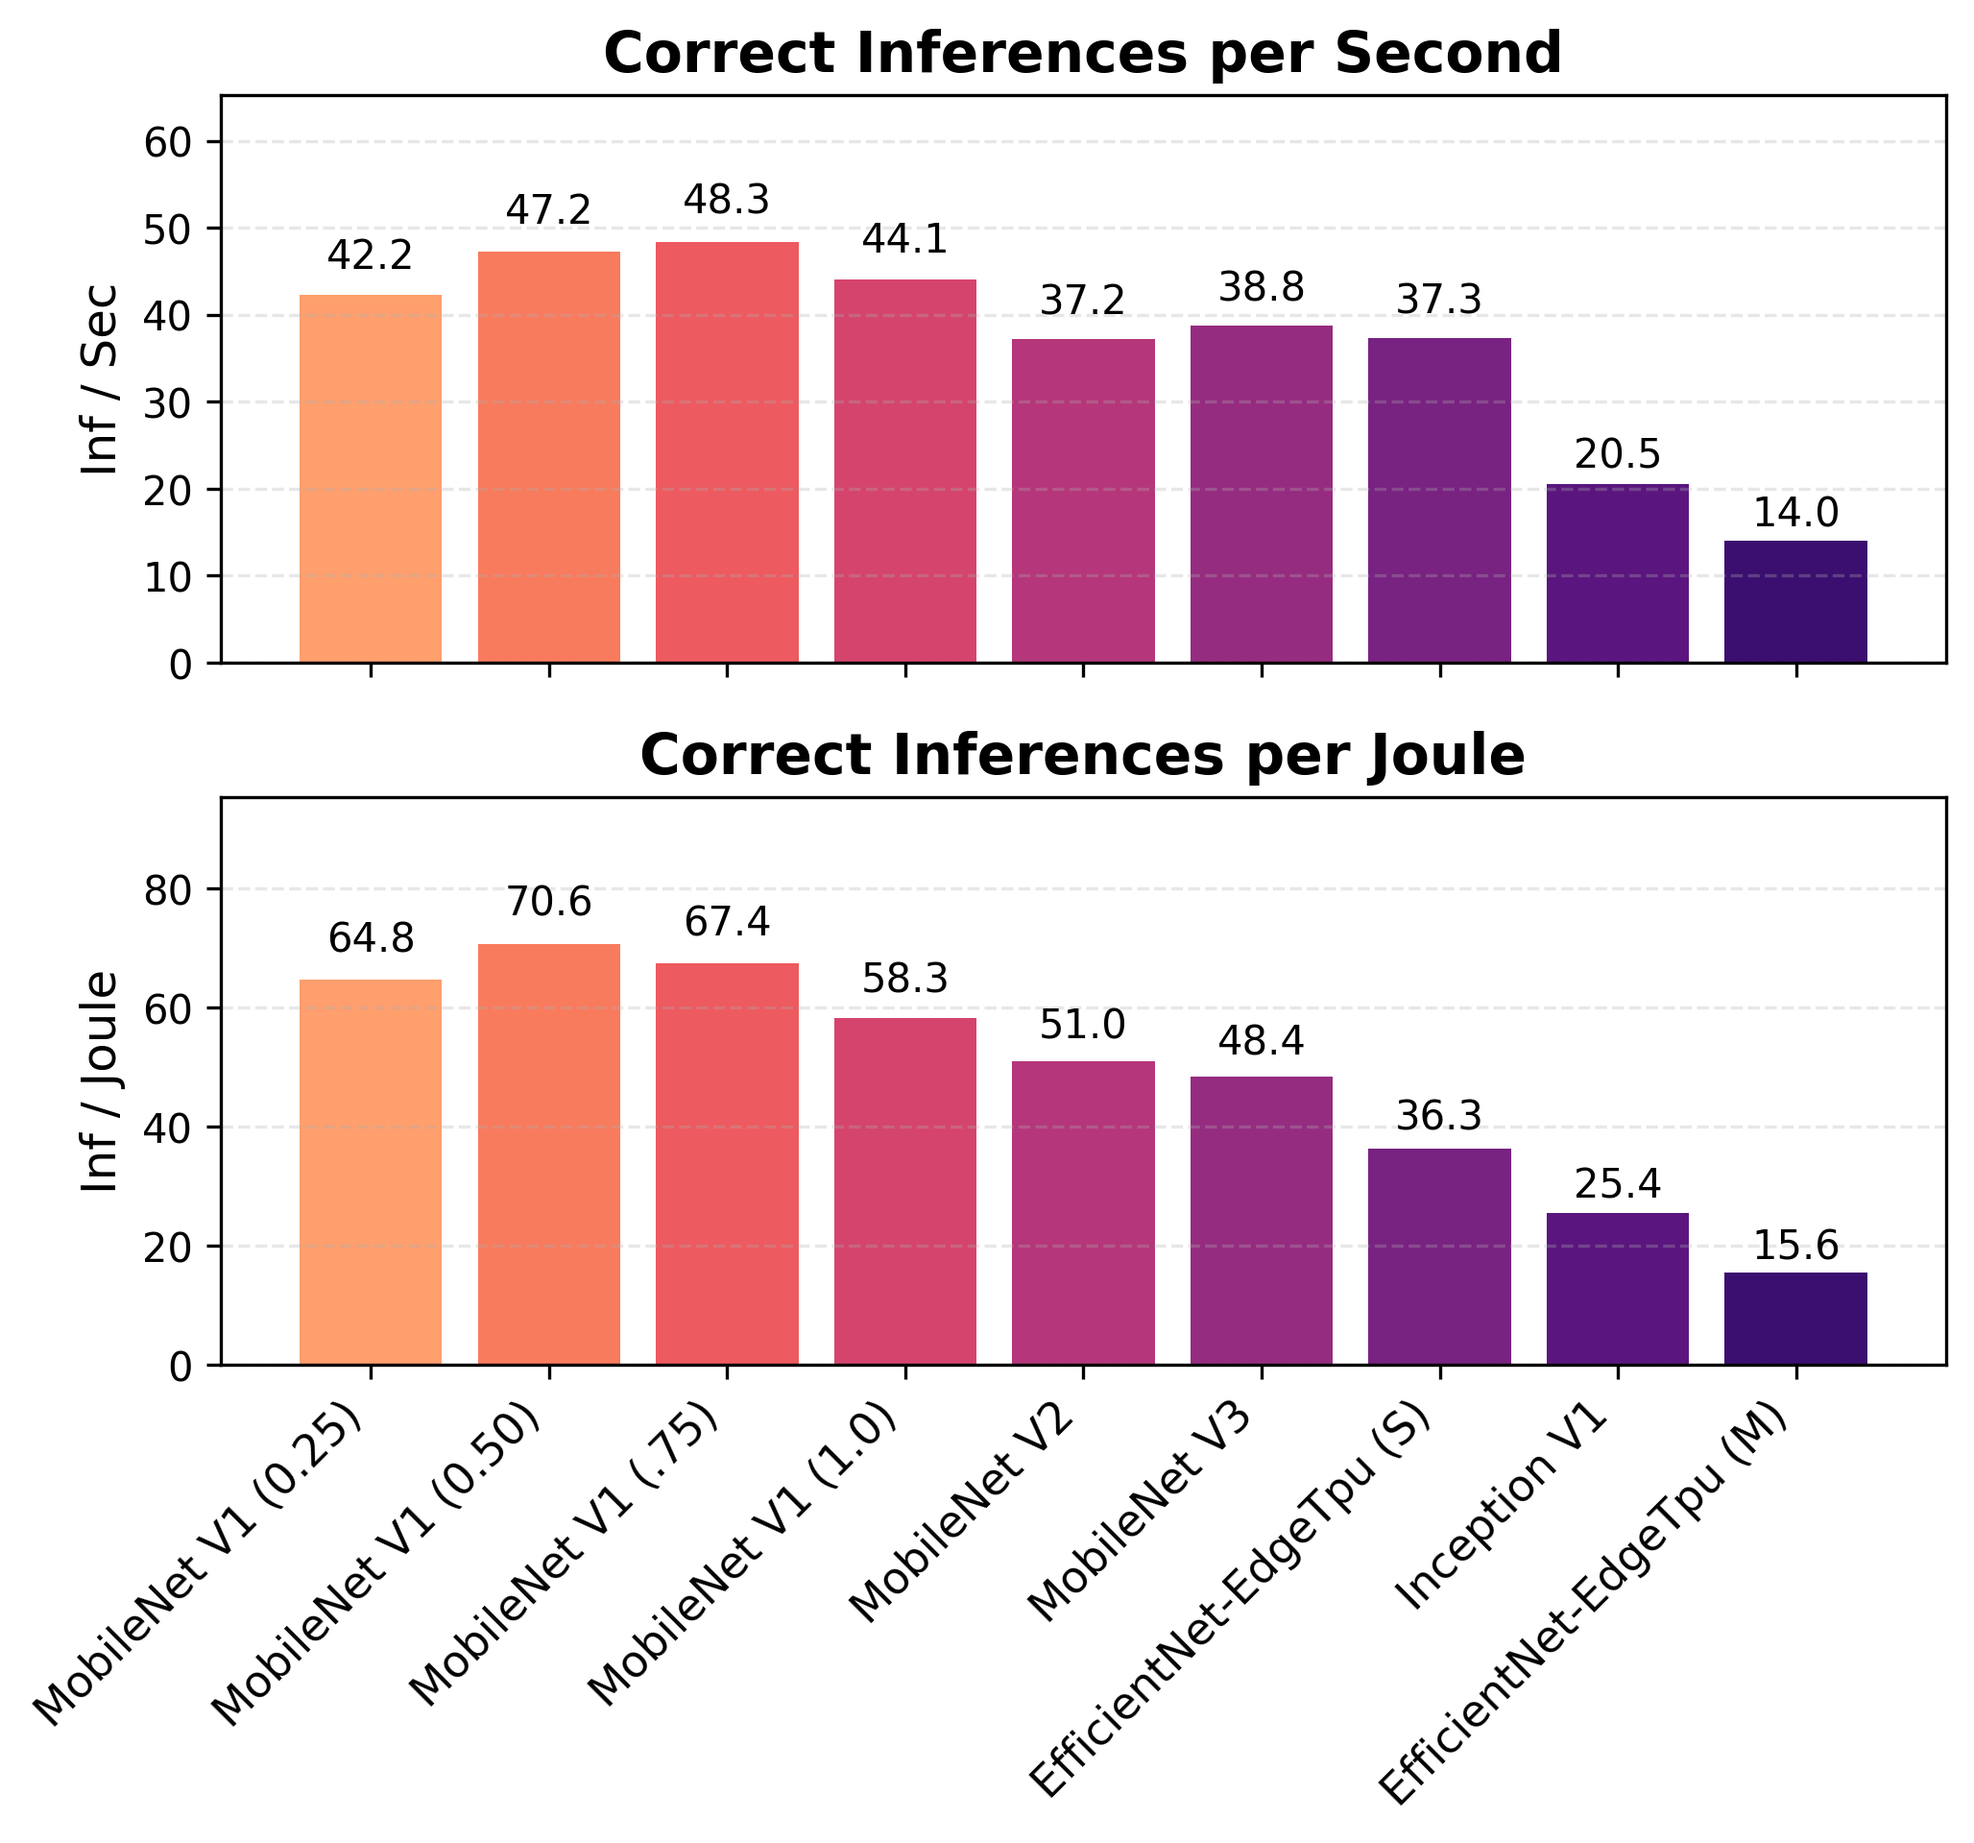
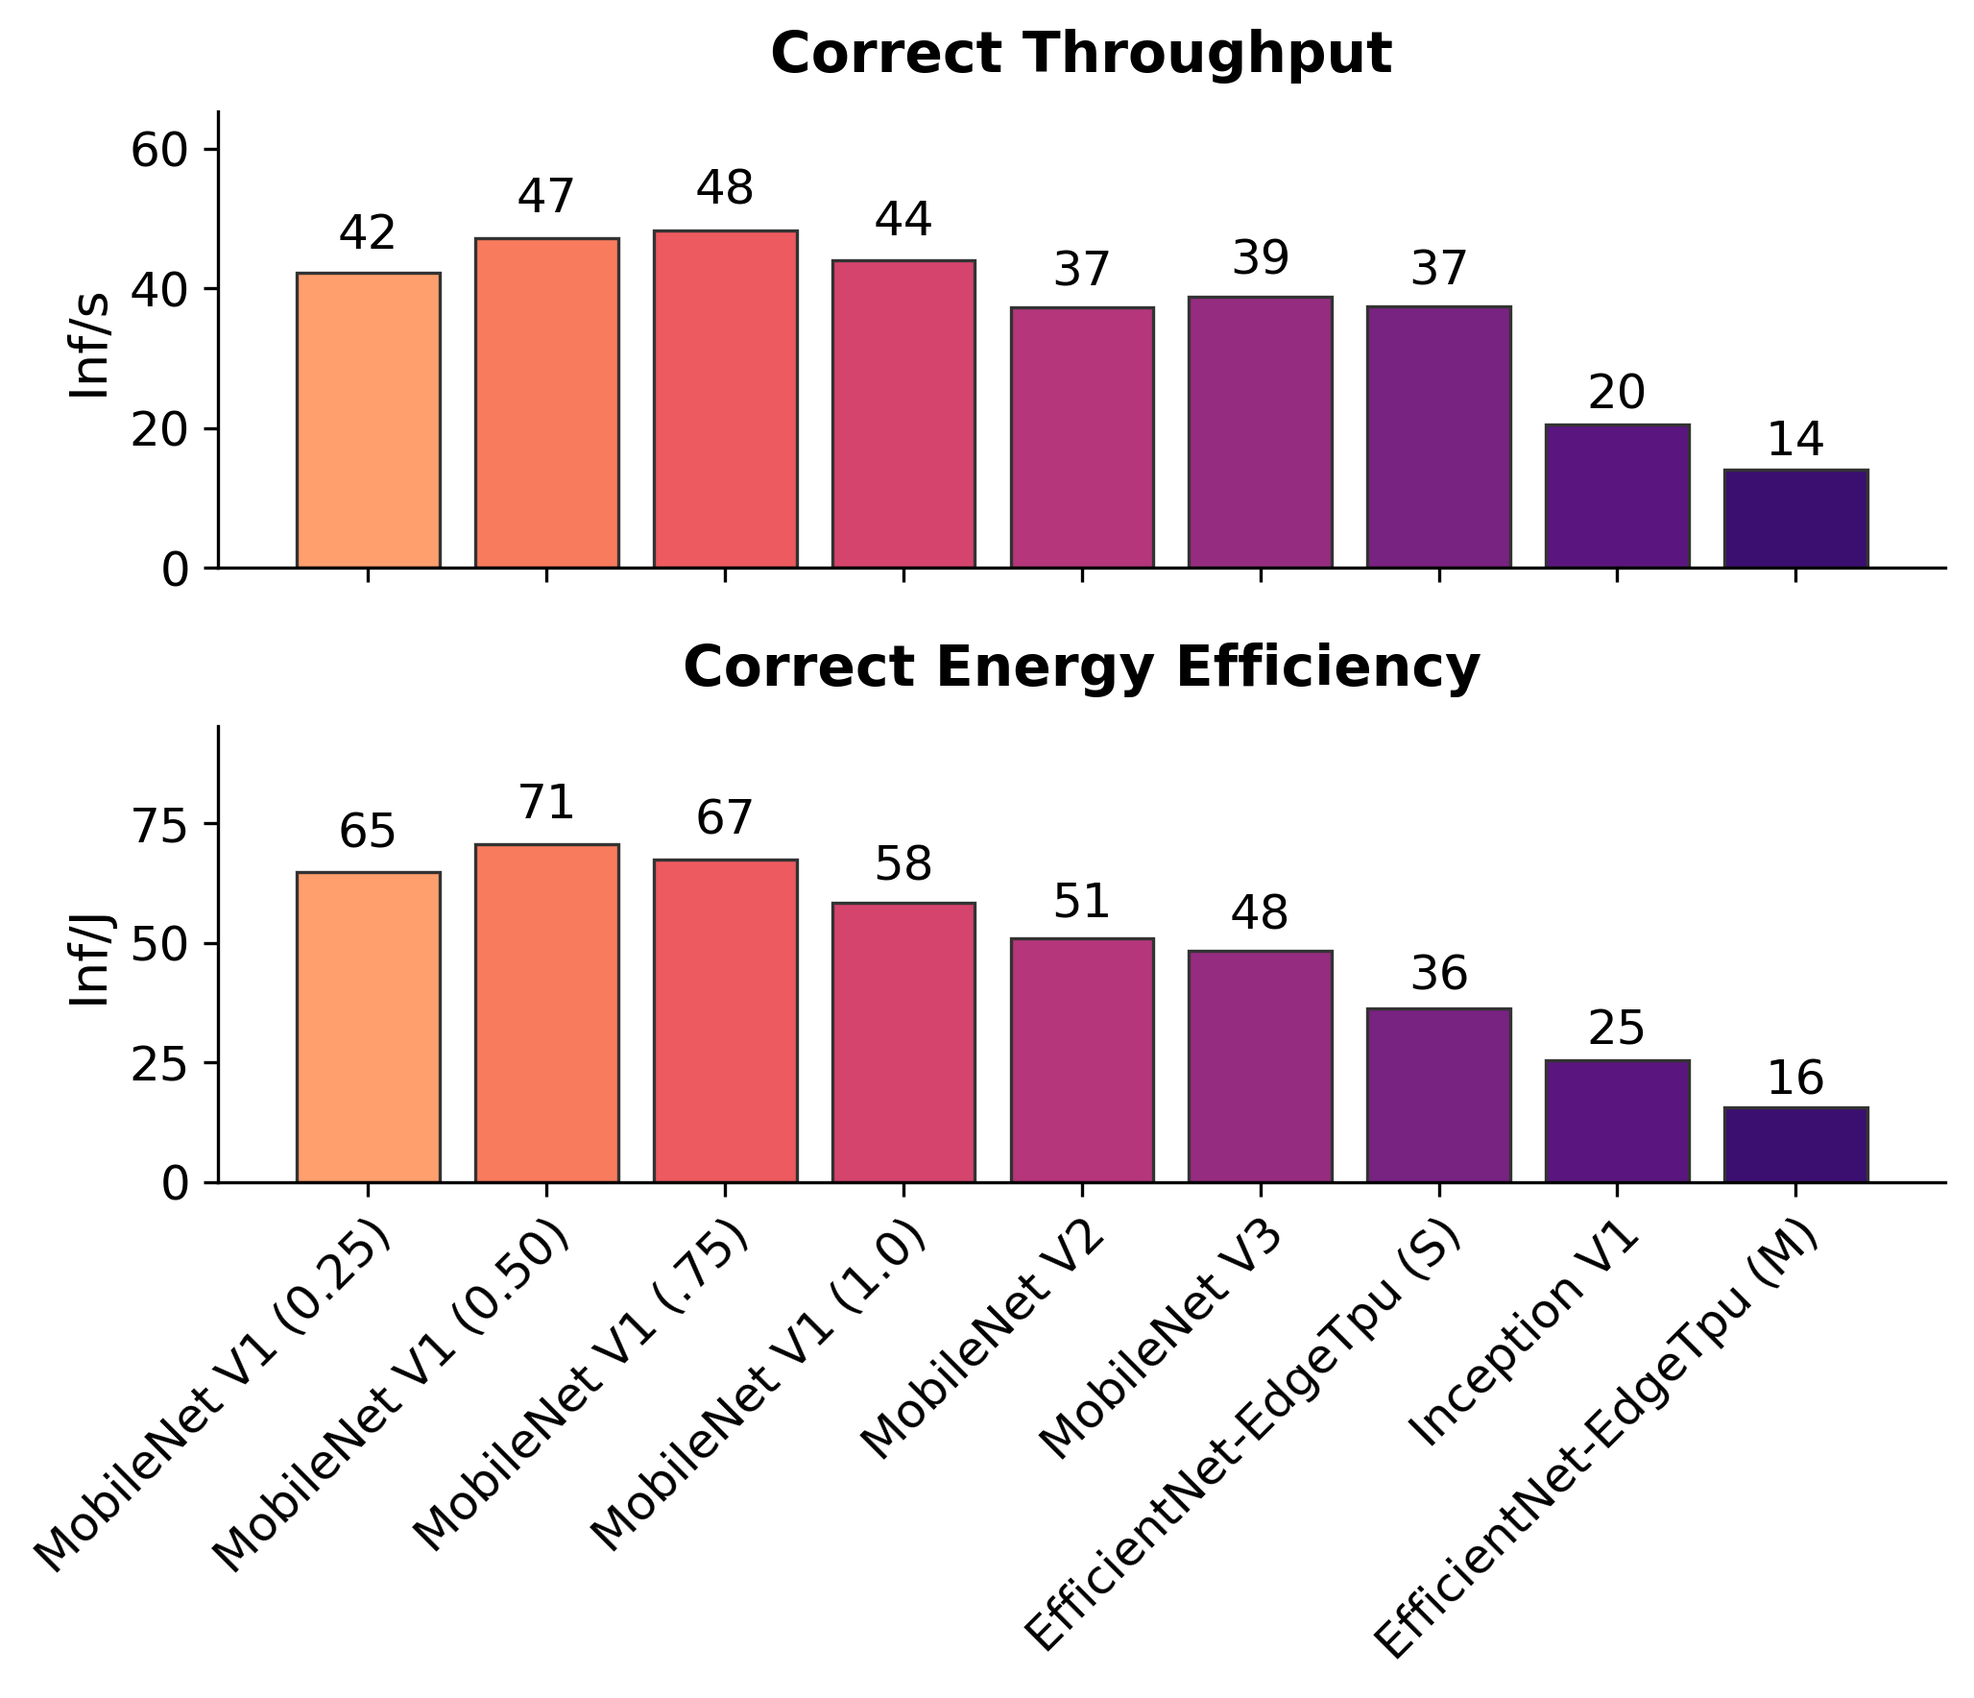
[results] updates pre-trained metric plots

diff --git a/src/scripts/hardware_characterization/plotting/model_stats_plotting.py b/src/scripts/hardware_characterization/plotting/model_stats_plotting.py
@@ -1166,20 +1166,17 @@ def plot_pretrained_from_compiled_json(json_path: pathlib.Path, filename: pathli
     with open(json_path, 'r') as f:
         data = json.load(f)
         
-    # Exclude specific models to clean up the plot
     exclusions = [
         "MobileNet V1 (TF_ver_2.0)", 
         "MobileNet V2 (TF_ver_2.0)", 
         "Inception V2"
     ]
     
-    # Filter for pre-trained models and apply exclusions
     pretrained = [
         d for d in data 
         if d.get("Source") == "PreTrained" and d.get("Model name") not in exclusions
     ]
     
-    # Sort by Inference Time for a clean visual progression
     pretrained.sort(key=lambda x: x["Measured Inference Time (ms)"])
     
     names = [d["Model name"] for d in pretrained]
@@ -1189,50 +1186,45 @@ def plot_pretrained_from_compiled_json(json_path: pathlib.Path, filename: pathli
     
     x_pos = np.arange(len(names))
     
-    # Magma colorway mapped across the models (matching tpunet_plotting)
     cmap = plt.get_cmap('magma_r')
     colors = cmap(np.linspace(0.2, 0.8, len(names)))
     
-    # Sized for a single-column paper layout 
-    fig, axes = plt.subplots(nrows=3, ncols=1, sharex=True, figsize=(7, 9))
+    fig, axes = plt.subplots(nrows=3, ncols=1, sharex=True, figsize=(7, 6))
     
     def plot_row(ax_idx, data_vals, title, ylabel, ylim_top=None):
         ax = axes[ax_idx]
-        ax.bar(x_pos, data_vals, color=colors)
+        # Added a thin dark edge to the bars for crisp print quality
+        ax.bar(x_pos, data_vals, color=colors, edgecolor='#333333', linewidth=0.8)
         
-        # Paper-appropriate font sizes
-        ax.set_title(title, fontsize=14, fontweight='bold')
-        ax.set_ylabel(ylabel, fontsize=12)
-        ax.tick_params(axis="y", labelsize=10)
-        ax.grid(True, axis='y', linestyle='--', alpha=0.3)
+        # Professional typography and spacing
+        ax.set_title(title, fontsize=14, fontweight='bold', pad=10)
+        ax.set_ylabel(ylabel, fontsize=13)
+        ax.tick_params(axis="y", labelsize=12)
         
-        # Add generous headroom for the horizontal text labels
+        # Clean backdrop and despine (remove top/right borders)
+        ax.grid(False)
+        ax.spines['top'].set_visible(False)
+        ax.spines['right'].set_visible(False)
+        
         if ylim_top: 
             ax.set_ylim(0, ylim_top)
         else: 
             ax.set_ylim(0, max(data_vals) * 1.35) 
             
         for j, val in enumerate(data_vals):
-            # Horizontal value text, offset slightly higher
+            # Bumped annotation text size
             ax.text(
-                x_pos[j], val * 1.05, f"{val:.1f}", 
-                ha='center', va='bottom', fontsize=10, rotation=0
+                x_pos[j], val * 1.05, f"{val:.0f}", 
+                ha='center', va='bottom', fontsize=12, rotation=0
             )
 
-    # Row 0: Energy
-    plot_row(0, energy, "Energy per Inference", "mJ")
-    
-    # Row 1: Latency
-    plot_row(1, latency, "Inference Latency", "ms")
-    
-    # Row 2: Accuracy
-    # Set to 115 to ensure the horizontal text fits above the high accuracy bars
-    plot_row(2, accuracy, "Top-1 Accuracy", "%", ylim_top=115) 
+    plot_row(0, energy, "Energy Consumption", "Energy (mJ)")
+    plot_row(1, latency, "Inference Latency", "Latency (ms)")
+    plot_row(2, accuracy, "Classification Accuracy", "Percent (%)", ylim_top=115) 
 
-    # X-Axis configuration
     axes[2].set_xticks(x_pos)
-    # The X-axis model names remain angled so they don't overlap in the narrow column
-    axes[2].set_xticklabels(names, rotation=45, ha="right", fontsize=11)
+    # Increased x-tick font size and aligned them perfectly with the tick marks
+    axes[2].set_xticklabels(names, rotation=45, ha="right", rotation_mode="anchor", fontsize=12)
 
     plt.tight_layout()
     plt.savefig(filename, dpi=300, bbox_inches="tight")
@@ -1256,20 +1248,17 @@ def plot_pretrained_correct_metrics_from_json(json_path: pathlib.Path, filename:
     with open(json_path, 'r') as f:
         data = json.load(f)
         
-    # Apply the same exclusions to match the standard metrics plot
     exclusions = [
         "MobileNet V1 (TF_ver_2.0)", 
         "MobileNet V2 (TF_ver_2.0)", 
         "Inception V2"
     ]
     
-    # Filter for pre-trained models and apply exclusions
     pretrained = [
         d for d in data 
         if d.get("Source") == "PreTrained" and d.get("Model name") not in exclusions
     ]
     
-    # Sort identically (by Inference Time) to maintain color/position consistency
     pretrained.sort(key=lambda x: x["Measured Inference Time (ms)"])
     
     names = [d["Model name"] for d in pretrained]
@@ -1277,61 +1266,57 @@ def plot_pretrained_correct_metrics_from_json(json_path: pathlib.Path, filename:
     correct_inf_sec = []
     correct_inf_joule = []
     
-    # Calculate the derived metrics
     for d in pretrained:
         acc_frac = d["Top-1 Accuracy"] / 100.0
-        
-        # 1000 / ms = Inf/Sec
         inf_sec = 1000.0 / d["Measured Inference Time (ms)"]
         correct_inf_sec.append(inf_sec * acc_frac)
         
-        # 1000 / mJ = Inf/Joule
         inf_joule = 1000.0 / d["Energy per Inference (mJ)"]
         correct_inf_joule.append(inf_joule * acc_frac)
     
     x_pos = np.arange(len(names))
     
-    # Magma colorway mapped across the models
     cmap = plt.get_cmap('magma_r')
     colors = cmap(np.linspace(0.2, 0.8, len(names)))
     
-    # Sized for a single-column paper layout (slightly shorter since it's only 2 rows)
-    fig, axes = plt.subplots(nrows=2, ncols=1, sharex=True, figsize=(7, 6.5))
+    fig, axes = plt.subplots(nrows=2, ncols=1, sharex=True, figsize=(7, 6))
     
     def plot_row(ax_idx, data_vals, title, ylabel):
         ax = axes[ax_idx]
-        ax.bar(x_pos, data_vals, color=colors)
+        # Added a thin dark edge to the bars for crisp print quality
+        ax.bar(x_pos, data_vals, color=colors, edgecolor='#333333', linewidth=0.8)
         
-        # Paper-appropriate font sizes
-        ax.set_title(title, fontsize=14, fontweight='bold')
-        ax.set_ylabel(ylabel, fontsize=12)
-        ax.tick_params(axis="y", labelsize=10)
-        ax.grid(True, axis='y', linestyle='--', alpha=0.3)
+        # Professional typography and spacing
+        ax.set_title(title, fontsize=14, fontweight='bold', pad=10)
+        ax.set_ylabel(ylabel, fontsize=13)
+        ax.tick_params(axis="y", labelsize=12)
         
-        # 35% headroom for horizontal text
+        # Clean backdrop and despine (remove top/right borders)
+        ax.grid(False)
+        ax.spines['top'].set_visible(False)
+        ax.spines['right'].set_visible(False)
+        
         ax.set_ylim(0, max(data_vals) * 1.35) 
             
         for j, val in enumerate(data_vals):
+            # Bumped annotation text size
             ax.text(
-                x_pos[j], val * 1.05, f"{val:.1f}", 
-                ha='center', va='bottom', fontsize=10, rotation=0
+                x_pos[j], val * 1.05, f"{val:.0f}", 
+                ha='center', va='bottom', fontsize=12, rotation=0
             )
 
-    # Row 0: Correct Inferences per Second (Throughput)
-    plot_row(0, correct_inf_sec, "Correct Inferences per Second", "Inf / Sec")
-    
-    # Row 1: Correct Inferences per Joule (Efficiency)
-    plot_row(1, correct_inf_joule, "Correct Inferences per Joule", "Inf / Joule")
+    # Simplified titles and updated to standard scientific abbreviations
+    plot_row(0, correct_inf_sec, "Correct Throughput", "Inf/s")
+    plot_row(1, correct_inf_joule, "Correct Energy Efficiency", "Inf/J")
 
-    # X-Axis configuration
     axes[1].set_xticks(x_pos)
-    axes[1].set_xticklabels(names, rotation=45, ha="right", fontsize=11)
+    # Increased x-tick font size and aligned them perfectly
+    axes[1].set_xticklabels(names, rotation=45, ha="right", rotation_mode="anchor", fontsize=12)
 
     plt.tight_layout()
     plt.savefig(filename, dpi=300, bbox_inches="tight")
     print(f"[PLOT] Saved Pre-Trained correct metrics plot to {filename}")
     plt.close(fig)
-
 
 
 if __name__ == "__main__":
@@ -1382,34 +1367,34 @@ if __name__ == "__main__":
     )
 
     ## Budgeted Correct Inferences Plotting
-    print("[INFO] Generating budgeted correct inferences plots...")
+    # print("[INFO] Generating budgeted correct inferences plots...")
 
-    def Energy_in_Cap(C,V):
-        return 0.5 * C * V * V  # joules
-    def Frame_Time(H_m, FOV_deg):
-        R_E = 6371e3  # m
-        mu_E = 3.986e14  # m^3/s^2
-        R = H_m + R_E
-        V_SAT = (mu_E / R) ** 0.5  # m/s
-        FOV_rad = np.deg2rad(FOV_deg)
-        Res= 2 * H_m * np.tan(FOV_rad / 2)
-        GT = Res / V_SAT  # sec
-        return GT
+    # def Energy_in_Cap(C,V):
+    #     return 0.5 * C * V * V  # joules
+    # def Frame_Time(H_m, FOV_deg):
+    #     R_E = 6371e3  # m
+    #     mu_E = 3.986e14  # m^3/s^2
+    #     R = H_m + R_E
+    #     V_SAT = (mu_E / R) ** 0.5  # m/s
+    #     FOV_rad = np.deg2rad(FOV_deg)
+    #     Res= 2 * H_m * np.tan(FOV_rad / 2)
+    #     GT = Res / V_SAT  # sec
+    #     return GT
     
-    # Somewhat arbitrary combinations of buffer sizes and frame times
-    capcitances = [10e-3, 1e-1, 1, 5.6, 8]; # F
-    H = [600e3,600e3, 600e3, 600e3, 600e3]; # m
-    FOV = [45, 30, 15, 5, 2.5]; # degrees
+    # # Somewhat arbitrary combinations of buffer sizes and frame times
+    # capcitances = [10e-3, 1e-1, 1, 5.6, 8]; # F
+    # H = [600e3,600e3, 600e3, 600e3, 600e3]; # m
+    # FOV = [45, 30, 15, 5, 2.5]; # degrees
 
-    # Generate Budgets
-    buffers  = [Energy_in_Cap(C,5) for C in capcitances]  # joules
-    frame_times = [Frame_Time(H[i], FOV[i]) for i in range(len(H))]  # sec
+    # # Generate Budgets
+    # buffers  = [Energy_in_Cap(C,5) for C in capcitances]  # joules
+    # frame_times = [Frame_Time(H[i], FOV[i]) for i in range(len(H))]  # sec
 
-    # sort ascending
-    buffers.sort()
-    frame_times.sort()
+    # # sort ascending
+    # buffers.sort()
+    # frame_times.sort()
 
-    plots.budget_correct_loop(subset, buffers,frame_times ,REPO_ROOT/ "results")
+    # plots.budget_correct_loop(subset, buffers,frame_times ,REPO_ROOT/ "results")
 
     # matrix_winner = np.zeros((len(buffers), len(frame_times)), dtype=object)
 
